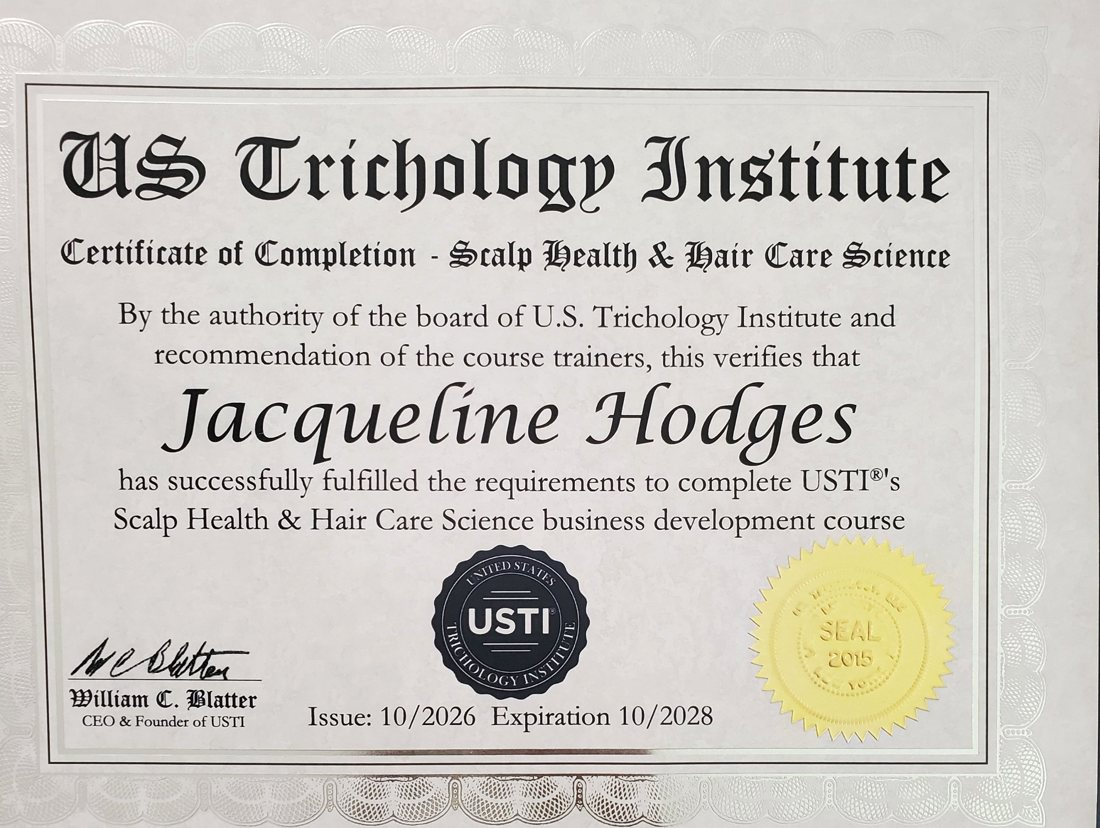
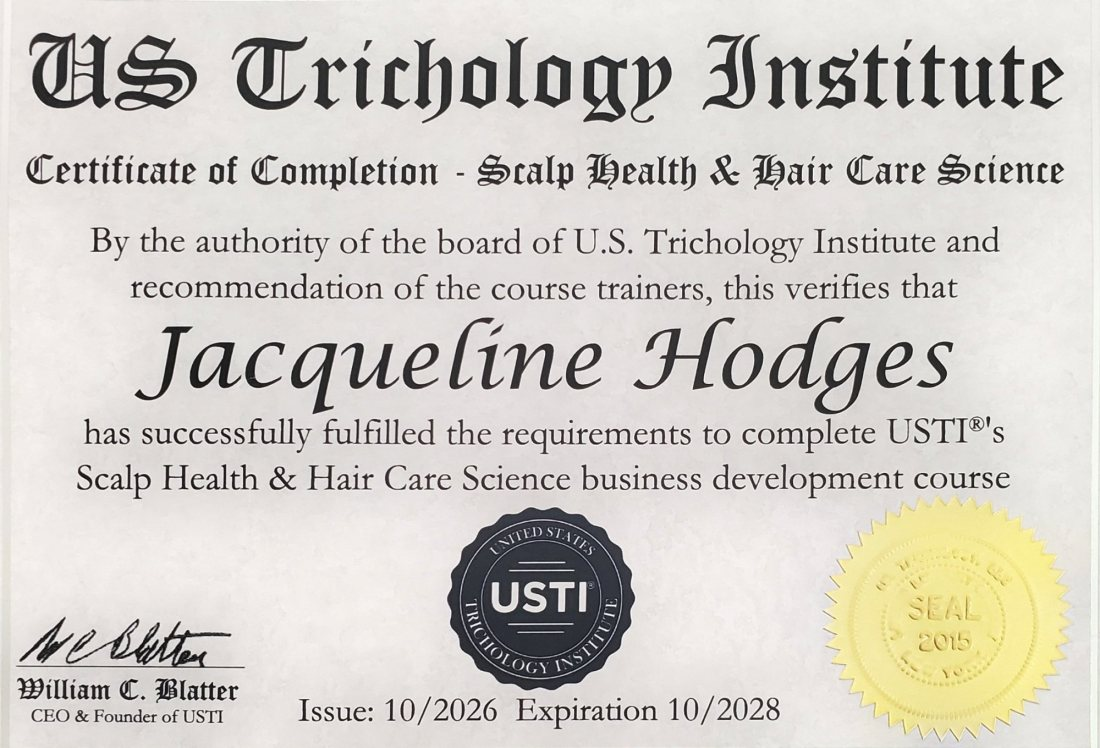
Straighten and recrop the Scalp Health certificate photo
Claude-Session: https://claude.ai/code/session_017xXzXuQGc4PQXdXtRQkY2u

diff --git a/index.html b/index.html
@@ -4231,7 +4231,7 @@
                   sizes="(min-width: 900px) 50vw, 100vw"
                   alt="Scalp Health &amp; Hair Care Science"
                   width="1100"
-                  height="828"
+                  height="748"
                   loading="lazy"
                   class="tlc-certs__image"
                   style="width: 100% !important; max-width: 100% !important; height: auto !important; display: block !important;"
